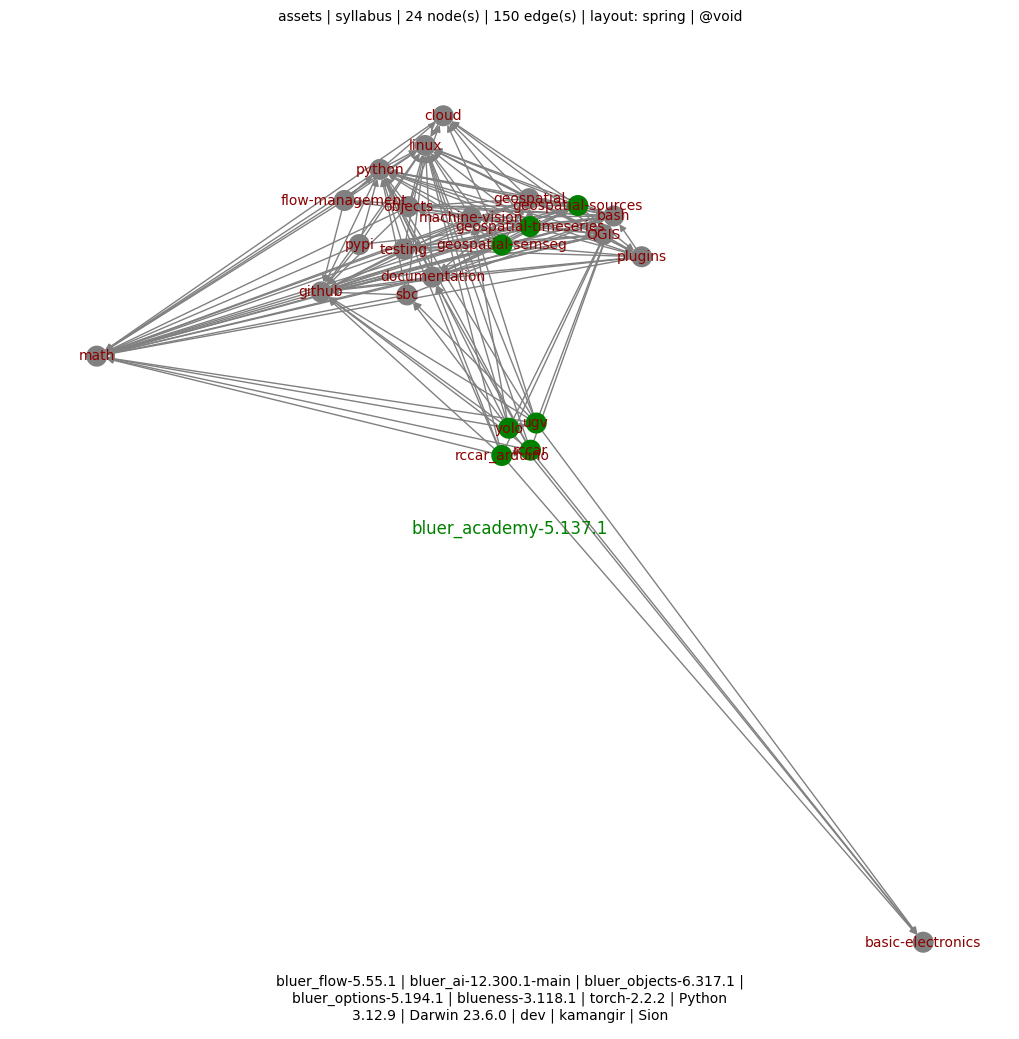
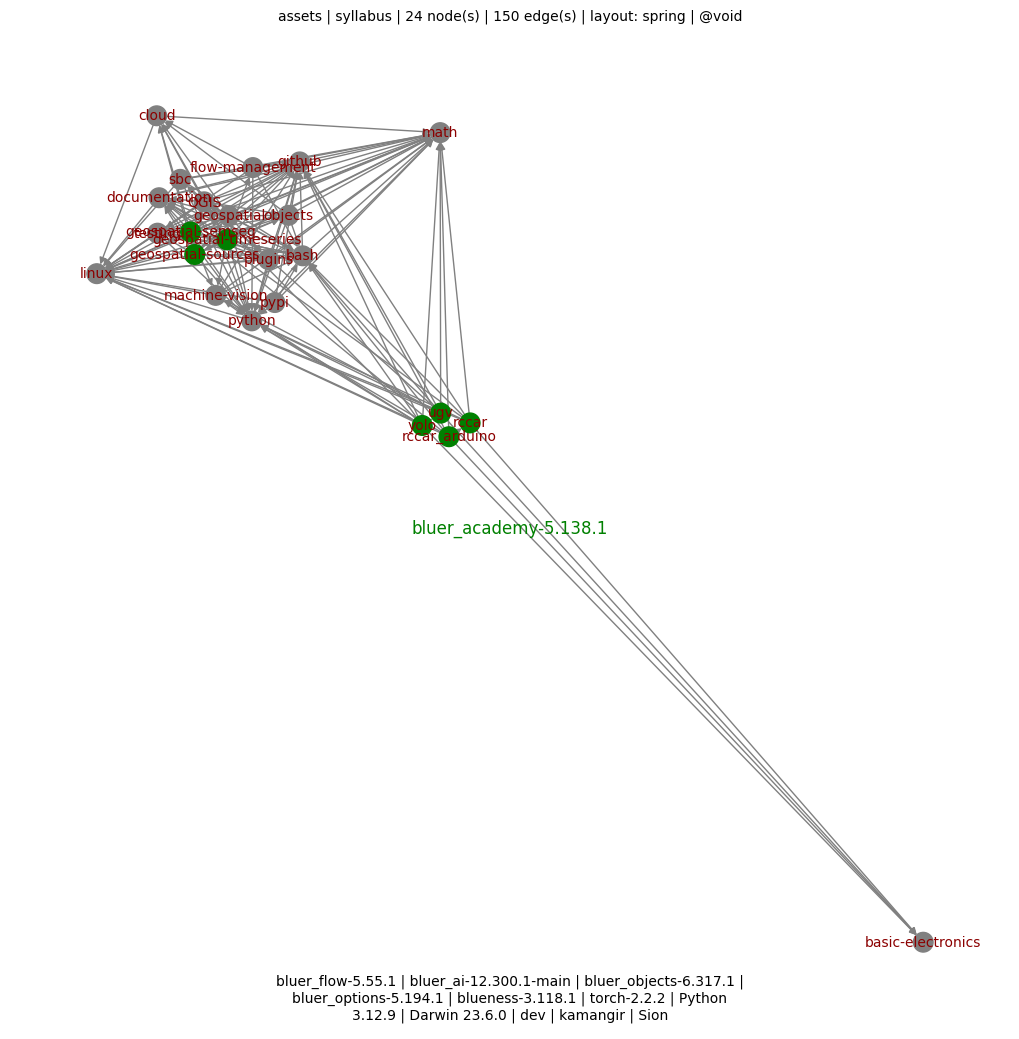
++ - kamangir/bolt#746

Changed region(s): [[0.0608, 0.0924, 0.8822, 0.8932]]

diff --git a/bluer_academy/__init__.py b/bluer_academy/__init__.py
@@ -4,7 +4,7 @@ ICON = "📐"
 
 DESCRIPTION = f"{ICON} an academy for practical AI in Iran."
 
-VERSION = "5.137.1"
+VERSION = "5.138.1"
 
 REPO_NAME = "bluer-academy"
 

diff --git a/README.md b/README.md
@@ -15,4 +15,4 @@ pip install bluer-academy
 
 [![pylint](https://github.com/kamangir/bluer-academy/actions/workflows/pylint.yml/badge.svg)](https://github.com/kamangir/bluer-academy/actions/workflows/pylint.yml) [![pytest](https://github.com/kamangir/bluer-academy/actions/workflows/pytest.yml/badge.svg)](https://github.com/kamangir/bluer-academy/actions/workflows/pytest.yml) [![bashtest](https://github.com/kamangir/bluer-academy/actions/workflows/bashtest.yml/badge.svg)](https://github.com/kamangir/bluer-academy/actions/workflows/bashtest.yml) [![PyPI version](https://img.shields.io/pypi/v/bluer-academy.svg)](https://pypi.org/project/bluer-academy/) [![PyPI - Downloads](https://img.shields.io/pypi/dd/bluer-academy)](https://pypistats.org/packages/bluer-academy)
 
-built by 🌀 [`bluer README`](https://github.com/kamangir/bluer-objects/tree/main/bluer_objects/README), based on 📐 [`bluer_academy-5.137.1`](https://github.com/kamangir/bluer-academy).
+built by 🌀 [`bluer README`](https://github.com/kamangir/bluer-objects/tree/main/bluer_objects/README), based on 📐 [`bluer_academy-5.138.1`](https://github.com/kamangir/bluer-academy).
